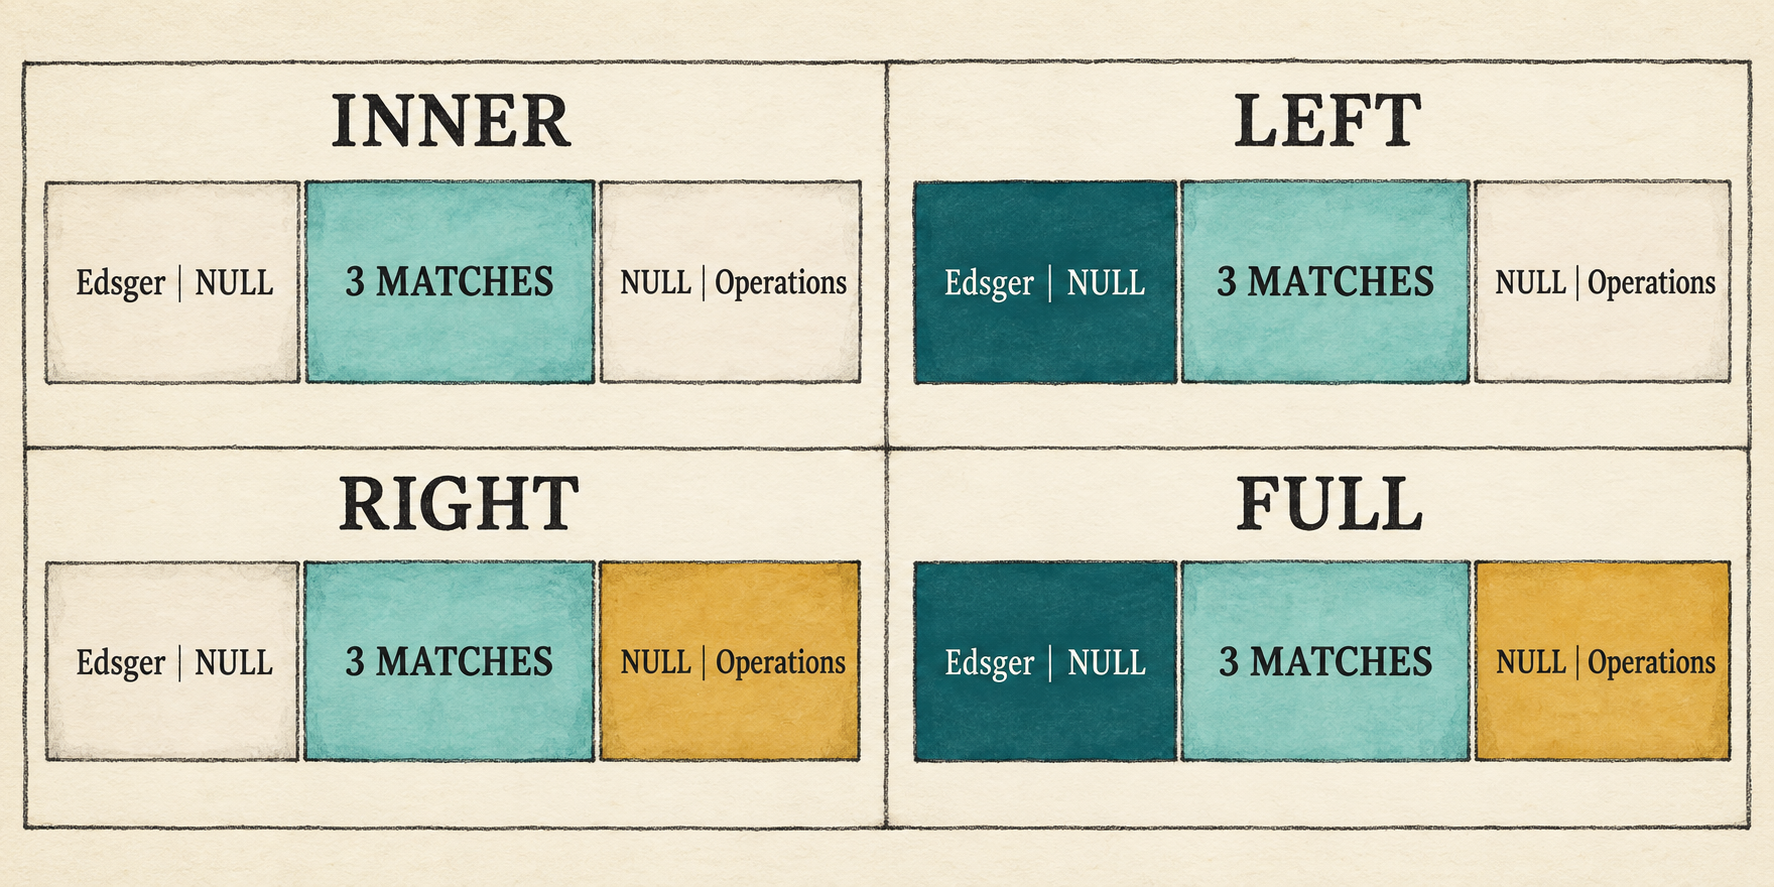
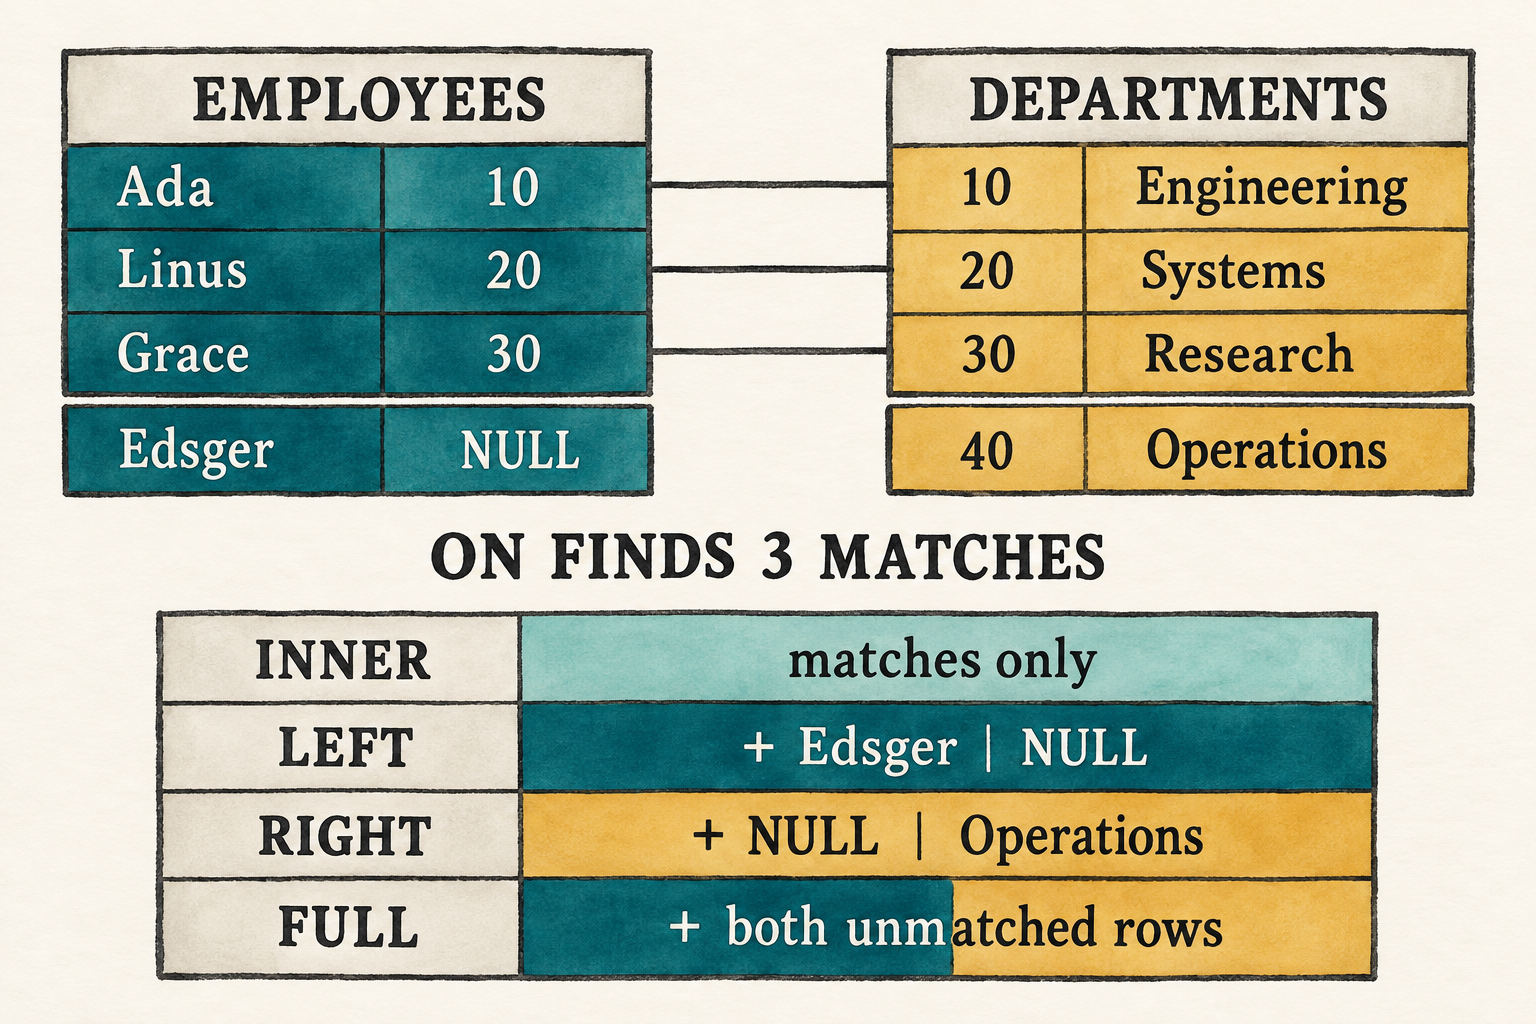
Improve Chapter 8 opening illustration

diff --git a/book/008-outer-joins-preserve-unmatched-rows.md b/book/008-outer-joins-preserve-unmatched-rows.md
@@ -19,8 +19,8 @@ department without an employee, and a full join retains both unmatched rows.
 > `NULL`s for the absent side.
 
 <figure class="book-illustration">
-  <img src="images/008-join-kinds-preserve-different-rows.png" alt="Four panels compare the same matched pairs, unmatched employee, and unmatched department, highlighting the rows retained by inner, left, right, and full joins.">
-  <figcaption>The join condition finds the same three matches; the join kind decides which unmatched rows also survive.</figcaption>
+  <img src="images/008-join-kinds-preserve-different-rows.png" alt="Employee and department rows form three matching pairs, leaving Edsger and Operations unmatched; a preservation key shows which unmatched sides survive each join kind with NULLs for the absent side.">
+  <figcaption><code>ON</code> finds matching pairs first; the join kind then decides which unmatched rows survive with <code>NULL</code>s for the absent side.</figcaption>
 </figure>
 
 Chapter 7 created every possible pair and let `WHERE` discard the pairs that
